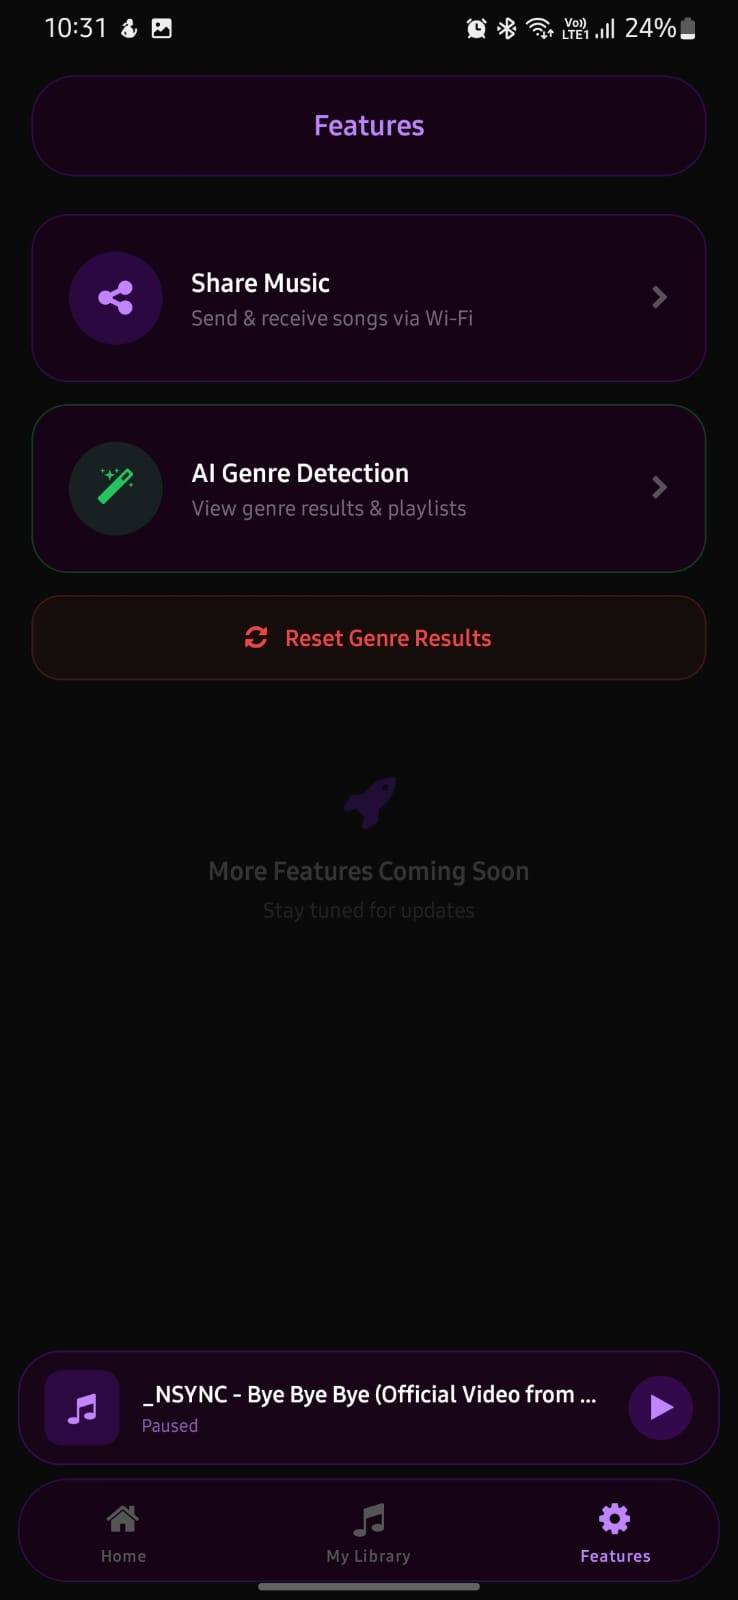
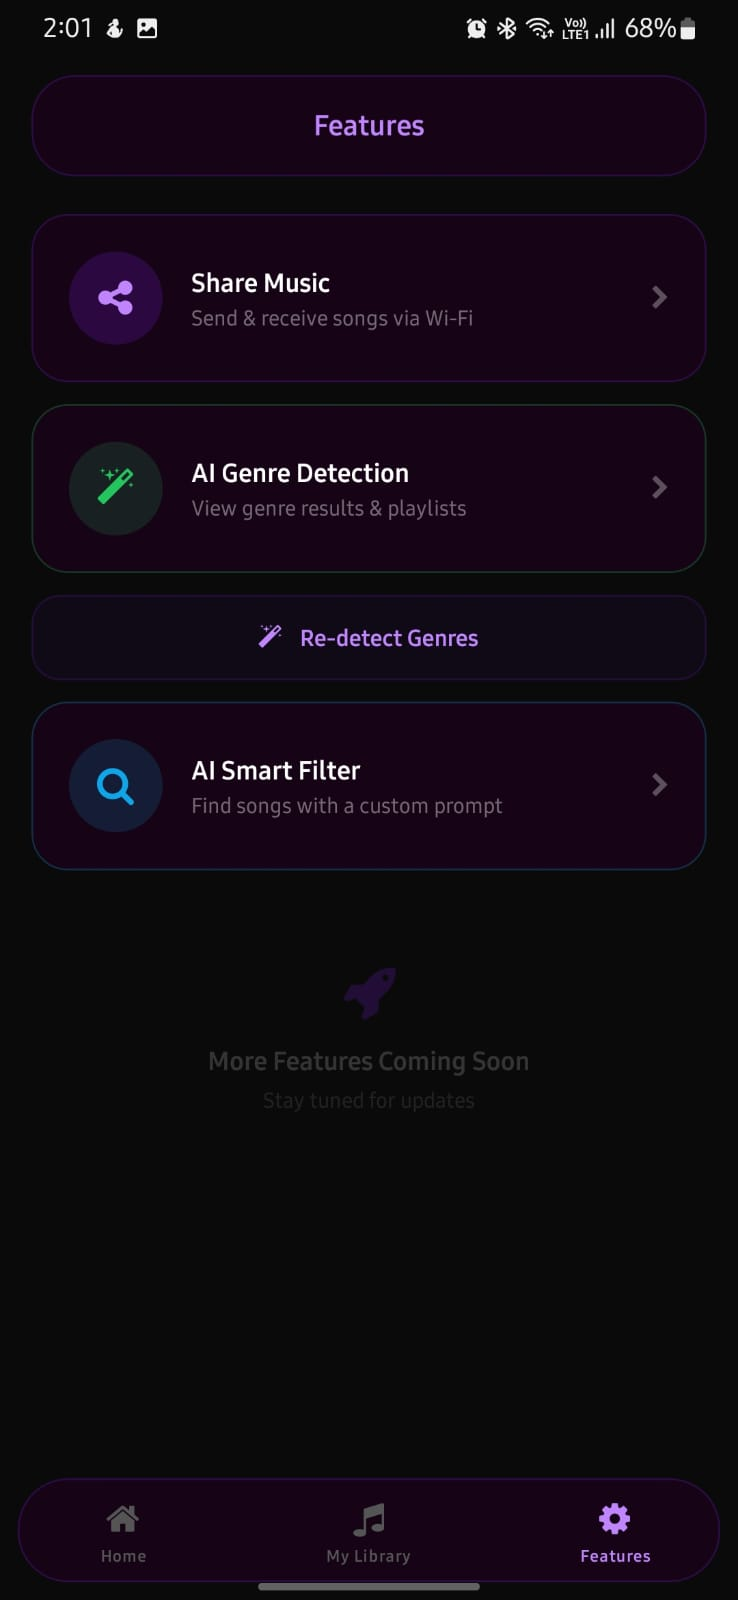
small-changes

diff --git a/app/(tabs)/features/index.tsx b/app/(tabs)/features/index.tsx
@@ -178,7 +178,7 @@ export default function FeaturesScreen() {
                     <Animated.View entering={FadeInDown.delay(200).duration(400)}>
                         <TouchableOpacity
                             onPress={() => {
-                                resetClassification();
+                                setShowConfirmModal(true);
                             }}
                             style={{
                                 flexDirection: "row",
@@ -187,21 +187,21 @@ export default function FeaturesScreen() {
                                 gap: 10,
                                 padding: 14,
                                 borderRadius: 16,
-                                backgroundColor: "rgba(239, 68, 68, 0.05)",
+                                backgroundColor: "rgba(127, 25, 230, 0.05)",
                                 borderWidth: 1,
-                                borderColor: "rgba(239, 68, 68, 0.2)",
+                                borderColor: "rgba(127, 25, 230, 0.2)",
                                 marginBottom: 12,
                             }}
                         >
-                            <FontAwesome name="refresh" size={14} color="#ef4444" />
+                            <FontAwesome name="magic" size={14} color="#c084fc" />
                             <Text
                                 style={{
                                     fontWeight: "600",
                                     fontSize: 14,
-                                    color: "#ef4444",
+                                    color: "#c084fc",
                                 }}
                             >
-                                Reset Genre Results
+                                Re-detect Genres
                             </Text>
                         </TouchableOpacity>
                     </Animated.View>
@@ -360,7 +360,9 @@ export default function FeaturesScreen() {
                                 textAlign: "center",
                             }}
                         >
-                            This process will analyze all songs on your device using AI and automatically:
+                            {hasClassified 
+                                ? "This will re-analyze your library. Existing genre results will be replaced with fresh detections." 
+                                : "This process will analyze all songs on your device using AI and automatically:"}
                         </Text>
 
                         {/* Steps */}

diff --git a/context/GenreContext.tsx b/context/GenreContext.tsx
@@ -108,10 +108,9 @@ export function GenreProvider({ children }: { children: React.ReactNode }) {
             setProgressMessage('Requesting permissions...');
             setErrorMessage('');
 
-            // Clear any stale data from previous failed runs
-            await clearGenreMapDB();
+            // Clear any stale flags, but KEEP existing DB data for now
+            // so the user doesn't see an empty library if detection is cancelled/fails
             await removeKV(CLASSIFIED_FLAG_KEY);
-            setGenreMap({});
             setHasClassified(false);
 
             // Request permissions
@@ -149,11 +148,12 @@ export function GenreProvider({ children }: { children: React.ReactNode }) {
             setStatus('classifying');
 
             // Classify with progress
+            // We pass 'true' for clearFirst so it replaces the whole DB atomically at the end
             const result = await classifyAllSongs(songs, (completed, total, batchDesc) => {
                 const classifyProgress = 10 + (completed / total) * 85; // 10% to 95%
                 setProgress(Math.round(classifyProgress));
                 setProgressMessage(`Analyzing: ${completed}/${total} songs classified\n${batchDesc}`);
-            });
+            }, true);
 
             setGenreMap(result);
 

diff --git a/utils/genreService.ts b/utils/genreService.ts
@@ -98,9 +98,9 @@ export async function loadGenreMap(): Promise<GenreMap> {
   }
 }
 
-export async function saveGenreMap(genreMap: GenreMap): Promise<void> {
+export async function saveGenreMap(genreMap: GenreMap, clearFirst: boolean = false): Promise<void> {
   try {
-    await saveGenreMapToDB(genreMap);
+    await saveGenreMapToDB(genreMap, clearFirst);
   } catch (e) {
     console.error("Failed to save genre map", e);
   }
@@ -212,6 +212,7 @@ async function classifyBatch(
 export async function classifyAllSongs(
   songs: SongInput[],
   onProgress: (completed: number, total: number, currentBatch: string) => void,
+  clearFirst: boolean = false,
 ): Promise<GenreMap> {
   const totalSongs = songs.length;
   const allResults: GenreMap = {};
@@ -232,8 +233,8 @@ export async function classifyAllSongs(
     if (i < batches.length - 1) await new Promise((r) => setTimeout(r, 2000));
   }
 
-  // Only save the NEW results — existing entries are already in the DB
-  await saveGenreMap(allResults);
+  // Save the results — if clearFirst is true, it wipes the old data in the same transaction
+  await saveGenreMap(allResults, clearFirst);
 
   // Return merged map for the UI
   const existing = await loadGenreMap();

diff --git a/utils/database.ts b/utils/database.ts
@@ -316,10 +316,11 @@ export async function loadGenreMapFromDB(): Promise<Record<string, string[]>> {
 
 export async function saveGenreMapToDB(
   genreMap: Record<string, string[]>,
+  clearFirst: boolean = false,
 ): Promise<void> {
   const db = await getDatabase();
   const entries = Object.entries(genreMap);
-  if (entries.length === 0) return;
+  if (entries.length === 0 && !clearFirst) return;
 
   // Flatten the map for batch insertion: [song_id, genre] pairs
   const flattened: [string, string][] = [];
@@ -332,6 +333,12 @@ export async function saveGenreMapToDB(
   // Batch insert — 50 rows per statement
   const CHUNK_SIZE = 50;
   await db.withTransactionAsync(async () => {
+    if (clearFirst) {
+      await db.runAsync("DELETE FROM genre_map");
+    }
+
+    if (flattened.length === 0) return;
+
     for (let i = 0; i < flattened.length; i += CHUNK_SIZE) {
       const chunk = flattened.slice(i, i + CHUNK_SIZE);
       const placeholders = chunk.map(() => "(?, ?)").join(", ");
